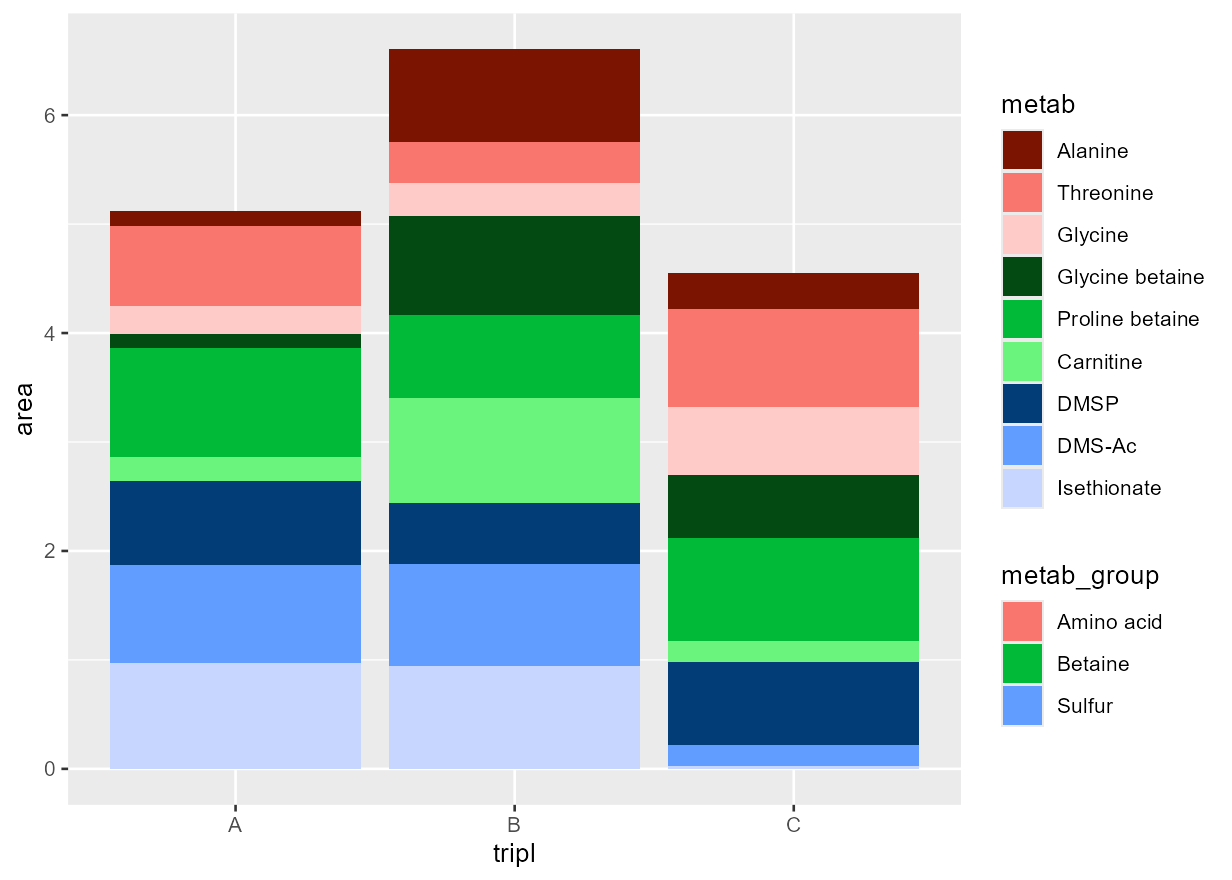
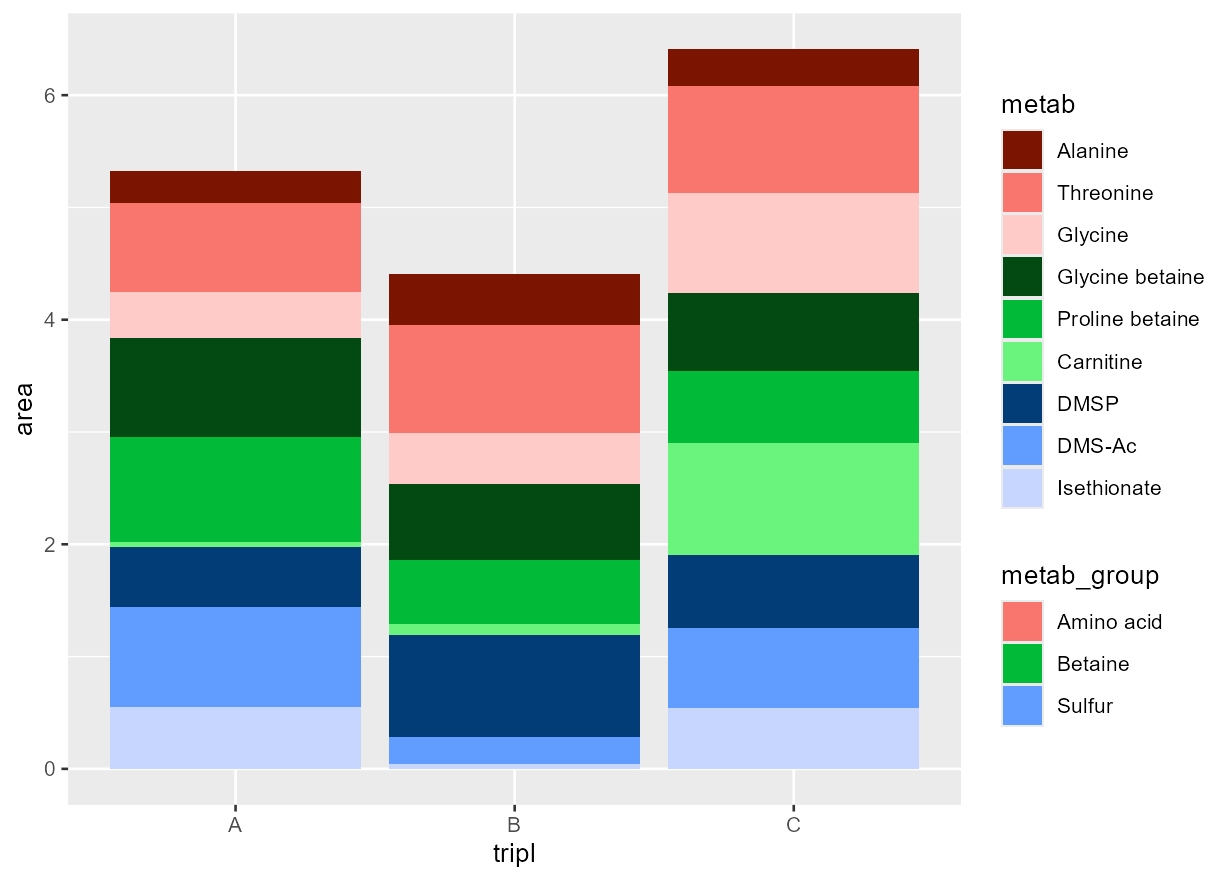
Typos in README, set.seed, and titled plots

diff --git a/README.md b/README.md
@@ -11,8 +11,8 @@ disambiguate them overall. It supports both nested and crossed designs.
 
 ## Installation
 
-You can install the most recent stable version of ggh4x from CRAN as
-follows:
+You can install the most recent stable version of gghtintshade from CRAN
+(soon!) as follows:
 
 ``` r
 install.packages("ggtintshade")
@@ -58,7 +58,7 @@ ggplot(metab_data) +
 This is a nice example of **nested** data, where each individual entry
 belongs to a single group. `ggtintshade` also handles **crossed** data,
 where each shade should map into multiple groups. A good example of this
-is your DND-style “alignment” chart.
+is your D&D-style “alignment” chart.
 
 ``` r
 align_data <- data.frame(
@@ -133,12 +133,14 @@ temp.data = data.frame (
 init_alpha <- ggplot(temp.data, aes(x = Species, y = Proportion, fill = Status, alpha = Species)) +
   geom_bar(stat='identity', position = position_dodge(width = 0.73), width=.67) +
   facet_grid(Sex ~ .) +
-  scale_fill_manual(name = "Status", labels = c("An","Bac"), values = c("#86a681","#0a3e03"))
+  scale_fill_manual(name = "Status", labels = c("An","Bac"), values = c("#86a681","#0a3e03")) +
+  ggtitle("Without ggtintshade")
 new_tinted <- ggplot(temp.data, aes(x = Species, y = Proportion, fill = Species, tintshade = Status)) +
   geom_bar_tintshade(stat='identity', position = position_dodge(width = 0.73), width=.67) +
   facet_grid(Sex ~ .) +
   scale_fill_manual(name = "Status", labels = c("An","Bac"), values = c("#cf944c","#0a3e03")) +
-  scale_tintshade_discrete(range = c(0.3, 0.7))
+  scale_tintshade_discrete(range = c(0.3, 0.7)) +
+  ggtitle("With ggtintshade")
 init_alpha + new_tinted
 #> Warning: Using alpha for a discrete variable is not advised.
 ```
@@ -158,10 +160,12 @@ d <- data.frame(
 
 init_alpha <- ggplot(d) +
   geom_path(aes(x, y, color=grp), linewidth=2, lineend=0) +
-  geom_path(aes(x, y, group=grp, alpha=z), linewidth=2, lineend=0)
+  geom_path(aes(x, y, group=grp, alpha=z), linewidth=2, lineend=0) +
+  ggtitle("Without ggtintshade")
 new_tinted <- ggplot(d) + 
   geom_path_tintshade(aes(x, y, color=grp, tintshade=z), linewidth=2, lineend=0) +
-  scale_tintshade_continuous(range = c(0.5, 0))
+  scale_tintshade_continuous(range = c(0.5, 0)) +
+  ggtitle("With ggtintshade")
 init_alpha + new_tinted
 ```
 